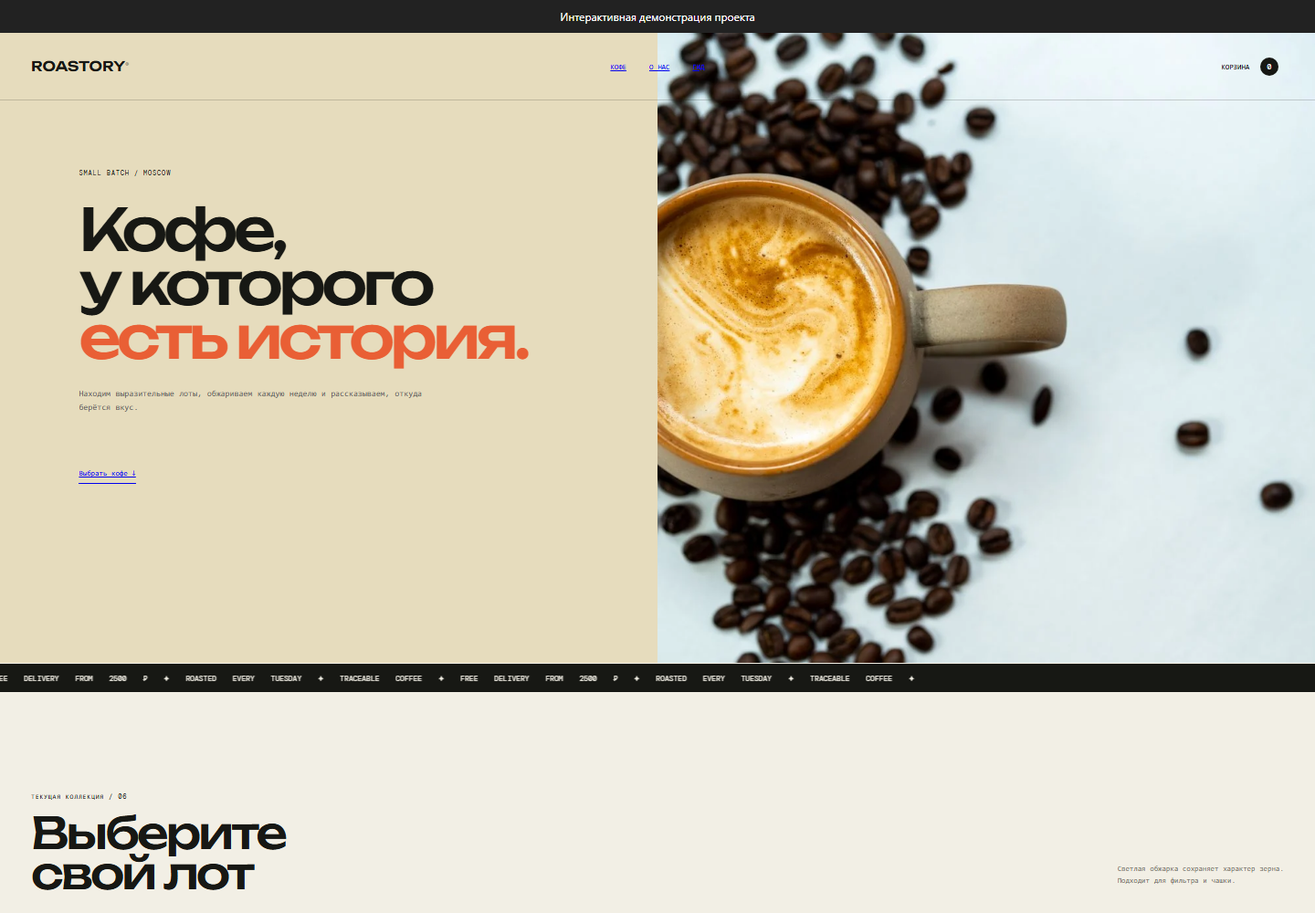
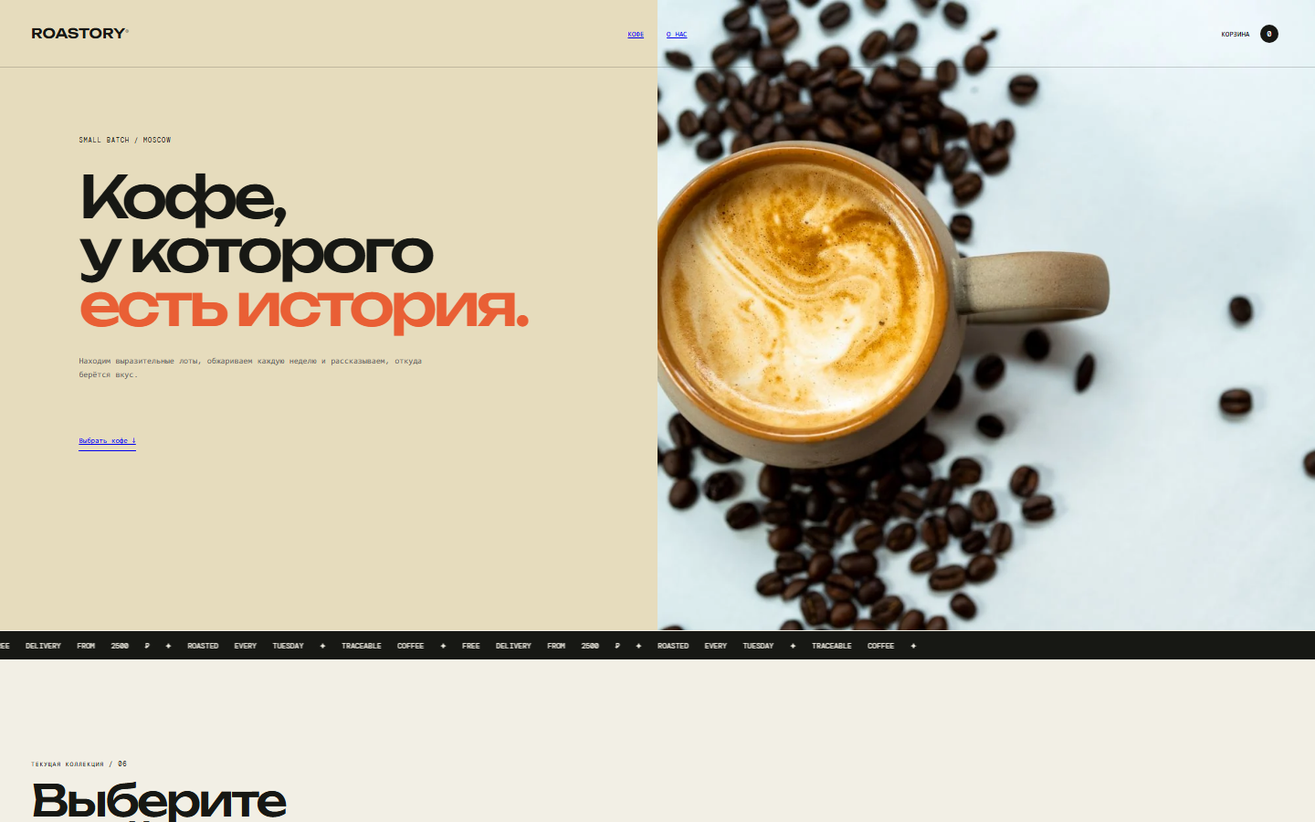
Polish project presentation, mobile layout and browser access

diff --git a/public/styles.css b/public/styles.css
@@ -1,3 +1,5 @@
-:root{font-family:'DM Mono',monospace;color:#171814;background:#f2efe5;--orange:#e95f35;--ink:#171814;--line:#c8c4b9}*{box-sizing:border-box}html{scroll-behavior:smooth}body{margin:0;min-width:320px}button,input{font:inherit}body>header{position:absolute;z-index:3;left:0;right:0;height:74px;display:grid;grid-template-columns:1fr auto 1fr;align-items:center;padding:0 34px;border-bottom:1px solid #24251e33}.logo{font:600 15px Unbounded}.logo sup{font:400 6px DM Mono}nav{display:flex;gap:25px}nav a{font-size:8px;text-transform:uppercase}.cart-button{justify-self:end;border:0;background:none;font-size:8px;text-transform:uppercase}.cart-button i{display:inline-grid;place-items:center;width:20px;height:20px;margin-left:7px;border-radius:50%;background:var(--ink);color:white;font-style:normal}.menu{display:none}.hero{display:grid;grid-template-columns:1fr 1fr;min-height:690px;background:#e6dcbd}.hero-copy{padding:140px 6vw 70px}.hero small,.catalog small,.story small{font-size:7px;letter-spacing:.12em}.hero h1{margin:25px 0;font:500 64px/.92 Unbounded;letter-spacing:-.07em}.hero h1 em{color:var(--orange);font-style:normal}.hero-copy p{max-width:380px;color:#65635a;font-size:9px;line-height:1.7}.hero-copy>a{display:inline-block;margin-top:50px;padding-bottom:6px;border-bottom:1px solid;font-size:8px}.hero-art{position:relative;overflow:hidden;background:#d7c35d}.ticker{overflow:hidden;border-top:1px solid;border-bottom:1px solid;background:var(--ink);color:#f2efe5}.ticker span{display:block;width:max-content;padding:10px;animation:run 24s linear infinite;font-size:8px;word-spacing:13px}@keyframes run{to{transform:translateX(-50%)}}.catalog{padding:100px 34px}.catalog>header{display:grid;grid-template-columns:1fr 1fr;align-items:end}.catalog h2,.story h2{margin:10px 0 0;font:500 48px/.92 Unbounded;letter-spacing:-.06em}.catalog header p{justify-self:end;color:#77746b;font-size:8px;line-height:1.6}.filters{display:flex;gap:6px;margin:45px 0 20px}.filters button{border:1px solid var(--line);border-radius:20px;background:none;padding:8px 12px;font-size:7px;text-transform:uppercase}.filters button.active{background:var(--ink);color:white}.products{display:grid;grid-template-columns:repeat(3,1fr);gap:12px}.product{border:1px solid var(--line);background:#ebe7db;cursor:pointer}.product-art{position:relative;height:290px;display:grid;place-items:center;overflow:hidden;background:var(--color)}.product-info{padding:16px}.product-top{display:flex;justify-content:space-between}.product h3{margin:0;font:500 16px Unbounded}.product-info p{margin:5px 0 15px;color:#777268;font-size:7px}.notes{min-height:28px;font-size:7px}.product-foot{display:flex;justify-content:space-between;align-items:center;padding-top:13px;border-top:1px solid var(--line)}.product-foot strong{font-size:11px}.product-foot button{width:27px;height:27px;border:0;border-radius:50%;background:var(--ink);color:white}.story{display:grid;grid-template-columns:1fr 1fr;min-height:590px;background:#263b30;color:#eeeee5}.story-art{position:relative;overflow:hidden;background:#bf7e4e}.story-copy{padding:100px 6vw}.story h2{font-size:51px}.story h2 em{color:#df9665;font-style:normal}.story-copy>p{max-width:440px;margin:40px 0;color:#a7afa8;font-size:9px;line-height:1.8}.story-copy>div{display:flex;gap:65px;padding-top:30px;border-top:1px solid #ffffff2b}.story-copy span{display:flex;gap:12px}.story-copy b{font:500 27px Unbounded}.story-copy span small{color:#abb2ac;font-size:6px}.cart{position:fixed;right:0;top:0;bottom:0;z-index:10;width:min(410px,100%);padding:25px;background:#f5f2e9;transform:translateX(100%);transition:.3s;overflow:auto}.cart.open{transform:none}.overlay{position:fixed;inset:0;z-index:9;background:#1119;opacity:0;pointer-events:none;transition:.3s}.overlay.open{opacity:1;pointer-events:auto}.cart-head{position:relative}.cart-head h2{margin:7px 0 25px;font:500 28px Unbounded}.cart-close{position:absolute;right:0;top:0;border:0;background:none;font-size:24px}.cart-item{display:grid;grid-template-columns:50px 1fr auto;gap:10px;align-items:center;padding:12px 0;border-top:1px solid var(--line)}.cart-item>img{width:50px;height:55px;object-fit:cover;border-radius:4px}.cart-item b,.cart-item small{display:block}.cart-item b{font:500 9px Unbounded}.cart-item small{margin-top:4px;color:#777;font-size:7px}.cart-item button{border:0;background:none}.cart-empty{text-align:center;padding:80px 0;color:#777;font:500 16px Unbounded}.cart-empty small{font:400 7px DM Mono}.cart form{display:none;gap:8px}.cart.has-items form{display:grid}.cart.has-items .cart-empty{display:none}.cart input{border:1px solid var(--line);background:white;padding:10px}.cart-total{display:flex;justify-content:space-between;margin-top:12px;padding:15px 0;border-top:1px solid}.cart form>button{border:0;background:var(--ink);color:white;padding:13px}.order-success{padding:20px 0;color:#486c51;font-size:9px}@media(max-width:800px){body>header{padding:0 16px;grid-template-columns:1fr auto}nav,.cart-button{display:none}.menu{display:block;border:0;background:none}.hero{grid-template-columns:1fr}.hero-copy{min-height:600px;padding:120px 18px 70px}.hero h1{font-size:47px}.hero-art{min-height:520px}.catalog{padding:80px 14px}.catalog>header{grid-template-columns:1fr}.catalog header p{justify-self:start}.products{grid-template-columns:1fr}.product-art{height:330px}.story{grid-template-columns:1fr}.story-art{min-height:500px}.story-copy{padding:70px 20px}.story h2{font-size:42px}.menu{font-size:0}.menu:after{content:'CART';font-size:8px}}
+:root{font-family:'DM Mono',monospace;color:#171814;background:#f2efe5;--orange:#e95f35;--ink:#171814;--line:#c8c4b9}*{box-sizing:border-box}html{scroll-behavior:smooth}body{margin:0;min-width:320px}button,input{font:inherit}body>header{position:absolute;z-index:3;left:0;right:0;height:74px;display:grid;grid-template-columns:1fr auto 1fr;align-items:center;padding:0 34px;border-bottom:1px solid #24251e33}.logo{font:600 15px Unbounded}.logo sup{font:400 6px DM Mono}nav{display:flex;gap:25px}nav a{font-size:8px;text-transform:uppercase}.cart-button{justify-self:end;border:0;background:none;font-size:8px;text-transform:uppercase}.cart-button i{display:inline-grid;place-items:center;width:20px;height:20px;margin-left:7px;border-radius:50%;background:var(--ink);color:white;font-style:normal}.menu{display:none}.hero{display:grid;grid-template-columns:1fr 1fr;min-height:690px;background:#e6dcbd}.hero-copy{padding:140px 6vw 70px}.hero small,.catalog small,.story small{font-size:7px;letter-spacing:.12em}.hero h1{margin:25px 0;font:500 64px/.92 Unbounded;letter-spacing:-.07em}.hero h1 em{color:var(--orange);font-style:normal}.hero-copy p{max-width:380px;color:#65635a;font-size:9px;line-height:1.7}.hero-copy>a{display:inline-block;margin-top:50px;padding-bottom:6px;border-bottom:1px solid;font-size:8px}.hero-art{position:relative;overflow:hidden;background:#d7c35d}.ticker{overflow:hidden;border-top:1px solid;border-bottom:1px solid;background:var(--ink);color:#f2efe5}.ticker span{display:block;width:max-content;padding:10px;animation:run 24s linear infinite;font-size:8px;word-spacing:13px}@keyframes run{to{transform:translateX(-50%)}}.catalog{padding:100px 34px}.catalog>header{display:grid;grid-template-columns:1fr 1fr;align-items:end}.catalog h2,.story h2{margin:10px 0 0;font:500 48px/.92 Unbounded;letter-spacing:-.06em}.catalog header p{justify-self:end;color:#77746b;font-size:8px;line-height:1.6}.filters{display:flex;gap:6px;margin:45px 0 20px}.filters button{border:1px solid var(--line);border-radius:20px;background:none;padding:8px 12px;font-size:7px;text-transform:uppercase}.filters button.active{background:var(--ink);color:white}.products{display:grid;grid-template-columns:repeat(3,1fr);gap:12px}.product{border:1px solid var(--line);background:#ebe7db;cursor:pointer}.product-art{position:relative;height:290px;display:grid;place-items:center;overflow:hidden;background:var(--color)}.product-info{padding:16px}.product-top{display:flex;justify-content:space-between}.product h3{margin:0;font:500 16px Unbounded}.product-info p{margin:5px 0 15px;color:#777268;font-size:7px}.notes{min-height:28px;font-size:7px}.product-foot{display:flex;justify-content:space-between;align-items:center;padding-top:13px;border-top:1px solid var(--line)}.product-foot strong{font-size:11px}.product-foot button{width:27px;height:27px;border:0;border-radius:50%;background:var(--ink);color:white}.story{display:grid;grid-template-columns:1fr 1fr;min-height:590px;background:#263b30;color:#eeeee5}.story-art{position:relative;overflow:hidden;background:#bf7e4e}.story-copy{padding:100px 6vw}.story h2{font-size:51px}.story h2 em{color:#df9665;font-style:normal}.story-copy>p{max-width:440px;margin:40px 0;color:#a7afa8;font-size:9px;line-height:1.8}.story-copy>div{display:flex;gap:65px;padding-top:30px;border-top:1px solid #ffffff2b}.story-copy span{display:flex;gap:12px}.story-copy b{font:500 27px Unbounded}.story-copy span small{color:#abb2ac;font-size:6px}.cart{position:fixed;right:0;top:0;bottom:0;z-index:10;width:min(410px,100%);padding:25px;background:#f5f2e9;transform:translateX(100%);transition:.3s;overflow:auto}.cart.open{transform:none}.overlay{position:fixed;inset:0;z-index:9;background:#1119;opacity:0;pointer-events:none;transition:.3s}.overlay.open{opacity:1;pointer-events:auto}.cart-head{position:relative}.cart-head h2{margin:7px 0 25px;font:500 28px Unbounded}.cart-close{position:absolute;right:0;top:0;border:0;background:none;font-size:24px}.cart-item{display:grid;grid-template-columns:50px 1fr auto;gap:10px;align-items:center;padding:12px 0;border-top:1px solid var(--line)}.cart-item>img{width:50px;height:55px;object-fit:cover;border-radius:4px}.cart-item b,.cart-item small{display:block}.cart-item b{font:500 9px Unbounded}.cart-item small{margin-top:4px;color:#777;font-size:7px}.cart-item button{border:0;background:none}.cart-empty{text-align:center;padding:80px 0;color:#777;font:500 16px Unbounded}.cart-empty small{font:400 7px DM Mono}.cart form{display:none;gap:8px}.cart.has-items form{display:grid}.cart.has-items .cart-empty{display:none}.cart input{border:1px solid var(--line);background:white;padding:10px}.cart-total{display:flex;justify-content:space-between;margin-top:12px;padding:15px 0;border-top:1px solid}.cart form>button{border:0;background:var(--ink);color:white;padding:13px}.order-success{padding:20px 0;color:#486c51;font-size:9px}@media(max-width:800px){body>header{padding:0 16px;grid-template-columns:1fr auto}nav,.cart-button{display:none}.menu{display:block;border:0;background:none}.hero{grid-template-columns:1fr}.hero-copy{min-height:0;padding:48px 20px 36px}.hero h1{font-size:clamp(40px,11vw,58px);line-height:1}.hero-art{min-height:0;aspect-ratio:4/3}.catalog{padding:52px 16px}.catalog>header{grid-template-columns:1fr}.catalog header p{justify-self:start}.products{grid-template-columns:1fr}.product-art{height:auto;aspect-ratio:4/3}.story{grid-template-columns:minmax(0,1fr)}.story-art{min-height:0;aspect-ratio:4/3}.story-copy{padding:70px 20px}.story h2{font-size:clamp(32px,9vw,42px)}.menu{font-size:0}.menu:after{content:'CART';font-size:8px}}
 
 .hero-art>img,.story-art>img{position:absolute;inset:0;display:block;width:100%;height:100%;object-fit:cover}.product-art>img{display:block;width:100%;height:100%;object-fit:cover}
+
+.hero-art>img{object-position:35% center}.story-copy{min-width:0}

diff --git a/public/index.html b/public/index.html
@@ -1,2 +1,2 @@
 <!doctype html><html lang="ru"><head><meta charset="UTF-8"><meta name="viewport" content="width=device-width,initial-scale=1"><meta name="description" content="Roastory — свежеобжаренный кофе с прозрачным происхождением"><link rel="preconnect" href="https://fonts.googleapis.com"><link rel="preconnect" href="https://fonts.gstatic.com" crossorigin><link href="https://fonts.googleapis.com/css2?family=DM+Mono:wght@400;500&family=Unbounded:wght@400;500;600&display=swap" rel="stylesheet"><link rel="stylesheet" href="styles.css"><title>Roastory — specialty coffee</title></head><body>
-<div role="note" style="padding:9px 16px;background:#222;color:#fff;font:12px/1.5 system-ui;text-align:center">Интерактивная демонстрация проекта</div><header><a class="logo">ROASTORY<sup>®</sup></a><nav><a href="#coffee">Кофе</a><a href="#story">О нас</a></nav><button class="cart-button">Корзина <i id="cart-count">0</i></button><button class="menu">☰</button></header><main><section class="hero"><div class="hero-copy"><small>SMALL BATCH / MOSCOW</small><h1>Кофе,<br>у которого<br><em>есть история.</em></h1><p>Находим выразительные лоты, обжариваем каждую неделю и рассказываем, откуда берётся вкус.</p><a href="#coffee">Выбрать кофе ↓</a></div><div class="hero-art"><img src="photos/hero.webp" alt="Свежий кофе и обжаренные зёрна" width="1440" height="960" fetchpriority="high"></div></section><div class="ticker"><span>FREE DELIVERY FROM 2500 ₽ ✦ ROASTED EVERY TUESDAY ✦ TRACEABLE COFFEE ✦ FREE DELIVERY FROM 2500 ₽ ✦ ROASTED EVERY TUESDAY ✦ TRACEABLE COFFEE ✦</span></div><section class="catalog" id="coffee"><header><div><small>ТЕКУЩАЯ КОЛЛЕКЦИЯ / 06</small><h2>Выберите<br>свой лот</h2></div><p>Светлая обжарка сохраняет характер зерна.<br>Подходит для фильтра и чашки.</p></header><div class="filters"><button class="active" data-process="all">Все</button><button data-process="Мытая">Мытая обработка</button><button data-process="Натуральная">Натуральная</button><button data-process="Хани">Хани</button></div><div class="products" id="products"></div></section><section class="story" id="story"><div class="story-art"><img src="photos/roasting.webp" alt="Зёрна в оборудовании для обжарки кофе" width="1440" height="960" loading="lazy" decoding="async"></div><div class="story-copy"><small>НАШ ПОДХОД</small><h2>Обжариваем<br>не цвет,<br><em>а вкус.</em></h2><p>Каждый лот проходит серию пробных обжарок. Мы ищем профиль, который подчёркивает терруар и делает чашку чистой, сладкой и узнаваемой.</p><div><span><b>48h</b><small>от обжарки<br>до отправки</small></span><span><b>86+</b><small>оценка каждого<br>лота по SCA</small></span></div></div></section></main><aside class="cart" aria-label="Корзина" inert><div class="cart-head"><small>ВАШ ЗАКАЗ</small><button class="cart-close" aria-label="Закрыть корзину">×</button><h2>Корзина</h2></div><div id="cart-items"></div><div class="cart-empty">Пока пусто.<br><small>Добавьте кофе из коллекции.</small></div><form id="checkout"><input aria-label="Ваше имя" maxlength="80" name="customer" required placeholder="Ваше имя"><input aria-label="Электронная почта" maxlength="254" name="email" type="email" required placeholder="Электронная почта"><div class="cart-total"><span>Итого</span><strong id="cart-total">0 ₽</strong></div><button>Оформить заказ →</button></form><div class="order-success" role="status"></div></aside><div class="overlay"></div><script src="app.js"></script></body></html>
+<header><a class="logo">ROASTORY<sup>®</sup></a><nav><a href="#coffee">Кофе</a><a href="#story">О нас</a></nav><button class="cart-button">Корзина <i id="cart-count">0</i></button><button class="menu">☰</button></header><main><section class="hero"><div class="hero-copy"><small>SMALL BATCH / MOSCOW</small><h1>Кофе,<br>у которого<br><em>есть история.</em></h1><p>Находим выразительные лоты, обжариваем каждую неделю и рассказываем, откуда берётся вкус.</p><a href="#coffee">Выбрать кофе ↓</a></div><div class="hero-art"><img src="photos/hero.webp" alt="Свежий кофе и обжаренные зёрна" width="1440" height="960" fetchpriority="high"></div></section><div class="ticker"><span>FREE DELIVERY FROM 2500 ₽ ✦ ROASTED EVERY TUESDAY ✦ TRACEABLE COFFEE ✦ FREE DELIVERY FROM 2500 ₽ ✦ ROASTED EVERY TUESDAY ✦ TRACEABLE COFFEE ✦</span></div><section class="catalog" id="coffee"><header><div><small>ТЕКУЩАЯ КОЛЛЕКЦИЯ / 06</small><h2>Выберите<br>свой лот</h2></div><p>Светлая обжарка сохраняет характер зерна.<br>Подходит для фильтра и чашки.</p></header><div class="filters"><button class="active" data-process="all">Все</button><button data-process="Мытая">Мытая обработка</button><button data-process="Натуральная">Натуральная</button><button data-process="Хани">Хани</button></div><div class="products" id="products"></div></section><section class="story" id="story"><div class="story-art"><img src="photos/roasting.webp" alt="Зёрна в оборудовании для обжарки кофе" width="1440" height="960" loading="lazy" decoding="async"></div><div class="story-copy"><small>НАШ ПОДХОД</small><h2>Обжариваем<br>не цвет,<br><em>а вкус.</em></h2><p>Каждый лот проходит серию пробных обжарок. Мы ищем профиль, который подчёркивает терруар и делает чашку чистой, сладкой и узнаваемой.</p><div><span><b>48h</b><small>от обжарки<br>до отправки</small></span><span><b>86+</b><small>оценка каждого<br>лота по SCA</small></span></div></div></section></main><aside class="cart" aria-label="Корзина" inert><div class="cart-head"><small>ВАШ ЗАКАЗ</small><button class="cart-close" aria-label="Закрыть корзину">×</button><h2>Корзина</h2></div><div id="cart-items"></div><div class="cart-empty">Пока пусто.<br><small>Добавьте кофе из коллекции.</small></div><form id="checkout"><input aria-label="Ваше имя" maxlength="80" name="customer" required placeholder="Ваше имя"><input aria-label="Электронная почта" maxlength="254" name="email" type="email" required placeholder="Электронная почта"><div class="cart-total"><span>Итого</span><strong id="cart-total">0 ₽</strong></div><button>Оформить заказ →</button></form><div class="order-success" role="status"></div></aside><div class="overlay"></div><script src="app.js"></script></body></html>

diff --git a/demo/browser.js b/demo/browser.js
@@ -1,0 +1,93 @@
+// Browser-only adapter, loaded exclusively by scripts/build_demo.py.
+// ponytail: state lasts for one page session; use the documented server for shared, durable data.
+(() => {
+  const state = structuredClone(globalThis.DEMO_SEED);
+  const fail = (message, status = 400) => {
+    throw Object.assign(new Error(message), { status });
+  };
+  const text = (value, min = 1, max = 200) => {
+    if (
+      typeof value !== "string" ||
+      value.trim().length < min ||
+      value.trim().length > max
+    )
+      fail("Проверьте введённые данные");
+    return value.trim();
+  };
+  const json = (value, status = 200) =>
+    new Response(JSON.stringify(value), {
+      status,
+      headers: { "Content-Type": "application/json" },
+    });
+  const originalFetch = globalThis.fetch.bind(globalThis);
+  globalThis.fetch = async (input, options = {}) => {
+    const url = new URL(input, globalThis.location.href);
+    if (
+      url.origin !== globalThis.location.origin ||
+      !url.pathname.startsWith("/api/")
+    )
+      return originalFetch(input, options);
+    if (options.signal?.aborted)
+      throw new DOMException("Aborted", "AbortError");
+    try {
+      return await handle(
+        url,
+        options.method || "GET",
+        options.body ? JSON.parse(options.body) : {},
+        new Headers(options.headers),
+      );
+    } catch (error) {
+      return json(
+        { message: error.message, detail: error.message },
+        error.status || 400,
+      );
+    }
+  };
+  globalThis.PORTFOLIO_DEMO = true;
+
+  let order = 0;
+  const seen = new Map();
+  async function handle(url, method, body, headers) {
+    if (url.pathname === "/api/products" && method === "GET")
+      return json(state["/api/products"]);
+    if (url.pathname === "/api/orders" && method === "POST") {
+      text(body.customer, 2, 80);
+      if (!/^[^\s@]+@[^\s@]+\.[^\s@]+$/.test(body.email || ""))
+        fail("Проверьте email");
+      if (
+        !Array.isArray(body.items) ||
+        body.items.length < 1 ||
+        body.items.length > 50 ||
+        new Set(body.items.map((x) => x.productId)).size !== body.items.length
+      )
+        fail("Проверьте корзину");
+      let total = 0;
+      for (const item of body.items) {
+        const product = state["/api/products"].find(
+          (x) => x.id === item.productId && x.available,
+        );
+        if (
+          !product ||
+          !Number.isInteger(item.quantity) ||
+          item.quantity < 1 ||
+          item.quantity > 10
+        )
+          fail("Проверьте товары и количество");
+        total += product.price * item.quantity;
+      }
+      const key = headers.get("Idempotency-Key"),
+        serialized = JSON.stringify(body);
+      if (key && seen.has(key)) {
+        const previous = seen.get(key);
+        if (previous.body !== serialized)
+          fail("Запрос с этим ключом уже обработан", 409);
+        return json(previous.result);
+      }
+      if (order >= 20) fail("Перезагрузите страницу для новой сессии", 429);
+      const result = { id: ++order, total, status: "saved_locally" };
+      if (key) seen.set(key, { body: serialized, result });
+      return json(result, 201);
+    }
+    fail("Маршрут недоступен в браузерной версии", 404);
+  }
+})();

diff --git a/scripts/build_demo.py b/scripts/build_demo.py
@@ -1,0 +1,30 @@
+"""Build an isolated static demo; never reads a runtime database or changes the API."""
+import json
+import shutil
+from pathlib import Path
+root = Path(__file__).resolve().parents[1]
+source = root / 'public'
+output = root / '_site'
+output.mkdir(exist_ok=True)
+shutil.copytree(source, output, dirs_exist_ok=True)
+seed = json.loads((root/'demo/seed.json').read_text(encoding='utf8'))
+(output/'seed.js').write_text('globalThis.DEMO_SEED = '+json.dumps(seed,ensure_ascii=False)+';\n',encoding='utf8')
+shutil.copyfile(root/'demo/browser.js', output/'demo.js')
+index = output/'index.html'
+html = index.read_text(encoding='utf8').replace('/static/','')
+html = html.replace('<script ', '<script src="seed.js"></script><script src="demo.js"></script><script ', 1)
+html = html.replace('<script>', '<script src="seed.js"></script><script src="demo.js"></script><script>', 1) if 'src="seed.js"' not in html else html
+html = html.replace('</body>', '<footer class="browser-scope" style="padding:16px;text-align:center;font:12px/1.5 system-ui">Изменения в этой версии хранятся в текущей вкладке. <a href="https://github.com/memorim/roastory-coffee-shop#readme">Исходный код и запуск сервера</a></footer></body>')
+html = html.replace('href="/"','href="./"').replace('href="/docs"','href="https://github.com/memorim/roastory-coffee-shop#readme"')
+html = html.replace('Start watching','Добавить в текущую сессию').replace('Start monitoring →','Добавить в текущую сессию →')
+html = html.replace('id="check-now">Проверить сейчас','id="check-now">О сетевых проверках')
+index.write_text(html,encoding='utf8')
+app=output/'app.js'
+if app.exists():
+ text=app.read_text(encoding='utf8')
+ text=text.replace('Run check','О сетевой проверке').replace(' is now being watched.',' добавлен в текущую сессию; сетевые проверки доступны при запуске сервера.')
+ text=text.replace('Капсула зашифрована и отправлена на орбиту.','Капсула зашифрована в памяти вкладки. Сохранится до перезагрузки страницы.')
+ text=text.replace('Демо-заявка сохранена. Уведомления менеджеру не отправляются.','Заявка сохранена в текущей вкладке. Контакты не отправлены менеджеру.')
+ text=text.replace('Демо-заказ №','Заказ в текущей вкладке №')
+ app.write_text(text,encoding='utf8')
+print('Built isolated browser demo:', root.name)

diff --git a/README.md b/README.md
@@ -1,14 +1,12 @@
-# Roastory — магазин свежеобжаренного кофе
+# Roastory - магазин свежеобжаренного кофе
 
 Каталог кофейных лотов, корзина и оформление заказа с расчётом итоговой суммы на сервере.
 
-
+[Открыть проект](https://memorim.github.io/roastory-coffee-shop/)
 
 ![Компьютерная версия](docs/desktop.png)
 
 <img src="docs/mobile.png" width="320" alt="Мобильная версия">
-
-[Короткая демонстрация](docs/demo.gif)
 
 ## Возможности
 
@@ -24,7 +22,7 @@ JavaScript, Express, Zod, встроенный SQLite в Node.js и HTML/CSS.
 
 - Цена загружается из серверного каталога. Заказ и его позиции сохраняются одной транзакцией.
 - Параметры проходят серверную валидацию, ошибки JSON возвращают ограниченный ответ. По умолчанию API слушает loopback.
-- Чтение цен и запись заказа находятся внутри `BEGIN IMMEDIATE`. Цены — целые рубли, допустимы значения 1–1 000 000; итог проверяется на безопасное целое. Клиентская цена игнорируется. В заказе до 50 разных лотов, по 1–10 единиц каждого.
+- Чтение цен и запись заказа находятся внутри `BEGIN IMMEDIATE`. Цены - целые рубли, допустимы значения 1-1 000 000; итог проверяется на безопасное целое. Клиентская цена игнорируется. В заказе до 50 разных лотов, по 1-10 единиц каждого.
 - Необязательный `Idempotency-Key` сохраняет результат заказа: повтор с теми же данными возвращает прежний ID и сумму; другие данные с тем же ключом дают 409. Форма сохраняет ключ и корзину при сетевой ошибке.
 - Ответ просмотра заказа содержит только ID, сумму, статус и дату; имя и email не возвращаются. Ошибки не пишут контакты в журнал.
 
@@ -59,7 +57,7 @@ pnpm exec playwright install --with-deps --only-shell chromium
 pnpm test:e2e
 ```
 
-Проверяются границы количества, дубли SKU, цена сервера, откат заказа и позиций, приватность ответа и две независимые серверные копии с одной SQLite и одним ключом. Upgrade сохраняет прежний заказ с позициями. Браузерные проверки покрывают каталог, корзину, повреждённое хранилище и потерю ответа. Playwright — только зависимость разработки, чтобы эти сценарии выполнялись в CI.
+Проверяются границы количества, дубли SKU, цена сервера, откат заказа и позиций, приватность ответа и две независимые серверные копии с одной SQLite и одним ключом. Upgrade сохраняет прежний заказ с позициями. Браузерные проверки покрывают каталог, корзину, повреждённое хранилище и потерю ответа. Playwright - только зависимость разработки, чтобы эти сценарии выполнялись в CI.
 
 Браузерные проверки запускают отдельную SQLite в памяти и не используют обычную папку `data`.
 
@@ -74,3 +72,9 @@ CI устанавливает зависимости по зафиксирова
 ## Документация
 
 [Результаты аудита](docs/AUDIT_2026_10.md) · [Техническая документация](docs/TECHNICAL.md) · [Пример запроса и ответа](docs/API_EXAMPLE.md) · [История изменений](CHANGELOG.md)
+
+## Версия в браузере
+
+Открывается без установки. Изменения изолированы в памяти текущей вкладки и сбрасываются при перезагрузке. Серверные гарантии и SQLite относятся к локальному запуску, описанному выше.
+
+Сборка: `python scripts/build_demo.py`. Проверка адаптера: `node --test demo/demo.test.mjs`.
